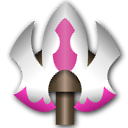
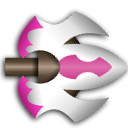
added movebehavior to example

diff --git a/src/swift2d/math/transformations.cpp b/src/swift2d/math/transformations.cpp
@@ -68,37 +68,37 @@ mat3 make_inversed (mat3 const& mat) {
 ////////////////////////////////////////////////////////////////////////////////
 
 void scale (mat3& mat, vec2 const& scale) {
-  mat = make_scale(scale) * mat;
+  mat = mat * make_scale(scale);
 }
 
 ////////////////////////////////////////////////////////////////////////////////
 
 void scale (mat3& mat, float scale) {
-  mat = make_scale(scale) * mat;
+  mat = mat * make_scale(scale);
 }
 
 ////////////////////////////////////////////////////////////////////////////////
 
 void scale (mat3& mat, float x, float y) {
-  mat = make_scale(x, y) * mat;
+  mat = mat * make_scale(x, y);
 }
 
 ////////////////////////////////////////////////////////////////////////////////
 
 void rotate (mat3& mat, float angle) {
-  mat = make_rotate(angle) * mat;
+  mat = mat * make_rotate(angle);
 }
 
 ////////////////////////////////////////////////////////////////////////////////
 
 void translate (mat3& mat, vec2 const& delta) {
-  mat = make_translate(delta) * mat;
+  mat = mat * make_translate(delta);
 }
 
 ////////////////////////////////////////////////////////////////////////////////
 
 void translate (mat3& mat, float x, float y) {
-  mat = make_translate(x, y) * mat;
+  mat = mat * make_translate(x, y);
 }
 
 ////////////////////////////////////////////////////////////////////////////////
@@ -112,37 +112,37 @@ void inverse (mat3& mat) {
 ////////////////////////////////////////////////////////////////////////////////
 
 mat3 scaled (mat3 const& mat, vec2 const& scale) {
-  return make_scale(scale) * mat;
+  return mat * make_scale(scale);
 }
 
 ////////////////////////////////////////////////////////////////////////////////
 
 mat3 scaled (mat3 const& mat, float scale) {
-  return make_scale(scale) * mat;
+  return mat * make_scale(scale);
 }
 
 ////////////////////////////////////////////////////////////////////////////////
 
 mat3 scaled (mat3 const& mat, float x, float y) {
-  return make_scale(x, y) * mat;
+  return mat * make_scale(x, y);
 }
 
 ////////////////////////////////////////////////////////////////////////////////
 
 mat3 rotated (mat3 const& mat, float angle) {
-  return make_rotate(angle) * mat;
+  return mat * make_rotate(angle);
 }
 
 ////////////////////////////////////////////////////////////////////////////////
 
 mat3 translated (mat3 const& mat, vec2 const& delta) {
-  return make_translate(delta) * mat;
+  return mat * make_translate(delta);
 }
 
 ////////////////////////////////////////////////////////////////////////////////
 
 mat3 translated (mat3 const& mat, float x, float y) {
-  return make_translate(x, y) * mat;
+  return mat * make_translate(x, y);
 }
 
 ////////////////////////////////////////////////////////////////////////////////

diff --git a/examples/simple/main.cpp b/examples/simple/main.cpp
@@ -19,6 +19,34 @@ int main(int argc, char** argv) {
 
   MainLoop loop;
 
+  auto window = Window::create();
+  // window->pFullscreen = true;
+
+
+  class Mover: public MoveBehavior {
+   public:
+    Mover() {}
+    Mover(WindowPtr const& w) {
+      w->on_key_press.connect([&](Key key, int scancode, int action, int mods){
+        if (key == Key::W) {
+          pLinearSpeed = action != 0 ? 10 : 0;
+        }
+
+        if (key == Key::A) {
+          pAngularSpeed = action != 0 ? -1 : 0;
+        }
+
+        if (key == Key::D) {
+          pAngularSpeed = action != 0 ? 1 : 0;
+        }
+      });
+    }
+  };
+
+
+
+
+
   // example scene setup -------------------------------------------------------
   auto scene = SceneObject::create();
 
@@ -46,8 +74,8 @@ int main(int argc, char** argv) {
   auto player = scene->add();
        player->pTransform = math::make_scale(0.1);
 
-  auto mover = planet->add<MoveBehavior>();
-       mover->pSpeed = math::vec2(-0.005, 0.00);
+  auto mover = std::make_shared<Mover>(window);
+  player->add(mover);
 
   auto listener = player->add<ListenerComponent>();
        listener->pVolume = 10.0;
@@ -58,8 +86,7 @@ int main(int argc, char** argv) {
        ship->tex_ = new TextureResource("ship.png");
 
   // rendering pipeline --------------------------------------------------------
-  auto window = Window::create();
-  // window->pFullscreen = true;
+
   auto pipeline = Pipeline::create();
   pipeline->set_output_window(window);
 
@@ -72,6 +99,7 @@ int main(int argc, char** argv) {
   Ticker ticker(1.0 / 60.0);
   ticker.on_tick.connect([&]() {
     renderer.process(scene, camera, timer.get_elapsed());
+    timer.reset();
     window->process_input();
   });
 

diff --git a/include/swift2d/behaviors/MoveBehavior.hpp b/include/swift2d/behaviors/MoveBehavior.hpp
@@ -32,11 +32,15 @@ class MoveBehavior : public Behavior<SceneObject*> {
  public:
 
   // ---------------------------------------------------------------- properties
-  Vec2 pSpeed;
+  Float pLinearSpeed;
+  Float pAngularSpeed;
 
   // ------------------------------------------------------------ public methods
   virtual void update(double time) {
-    get_user()->pTransform.set(math::translated(get_user()->pTransform.get(), pSpeed.get() * time));
+    auto user_transform(get_user()->pTransform.get());
+    math::rotate(user_transform, pAngularSpeed.get() * time);
+    math::translate(user_transform, pLinearSpeed.get() * time, 0);
+    get_user()->pTransform.set(user_transform);
   }
 
 };
